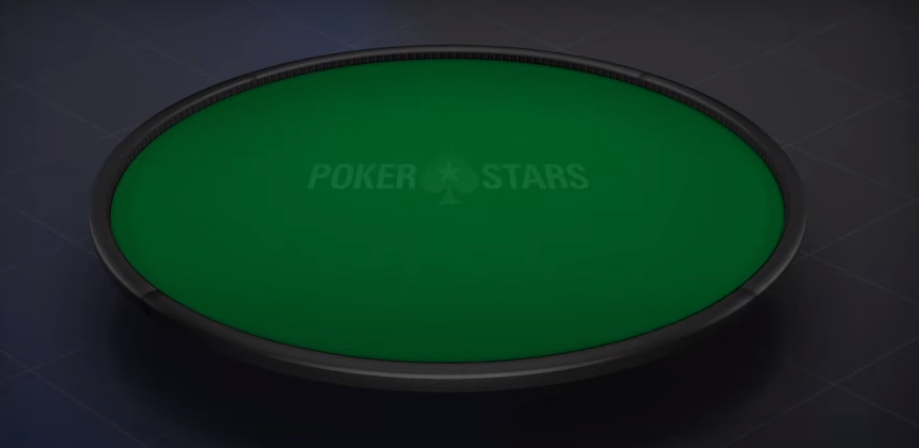
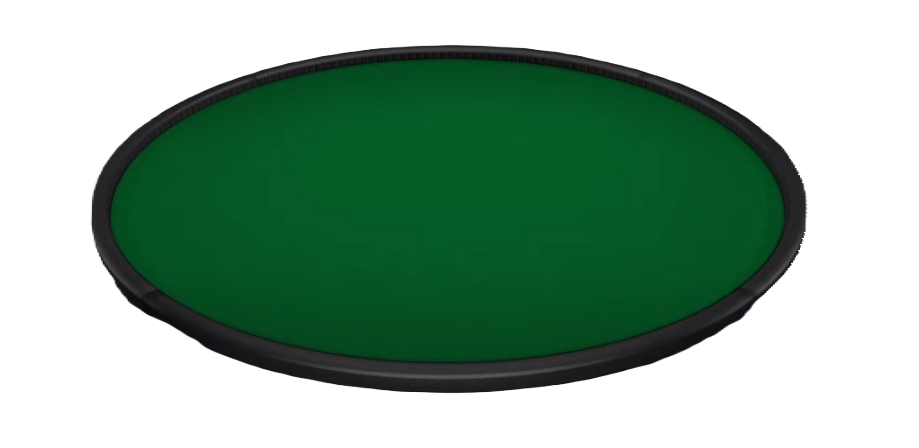
responsive and table

diff --git a/src/App.css b/src/App.css
@@ -1,7 +1,7 @@
 @import url('https://fonts.googleapis.com/css2?family=Agbalumo&family=Madimi+One&display=swap');
 
 body {
-  background-color: rgb(26, 22, 22);
+  background-color: rgb(0, 0, 0);
   display: flex;
   justify-content: center;
 }
@@ -10,26 +10,19 @@ body {
   text-align: center;
   color: white;
   height: 100dvh;
-  width: 100%;
+  width: 1024px;
   display: flex;
+  justify-content: center;
   flex-direction: column-reverse;
-  /* min-width: 1280px;
-  min-height: 855px;
-  max-width: 1280px;
-  max-height: 855px; */
   font-family: "Agbalumo", system-ui;
   font-weight: 400;
   font-style: normal;
 }
 
 .fundo {
+  position: relative;
   display: flex;
   flex-direction: column-reverse;
-  background-image: url("./assets/indiv/table/mesaps.png");
-  background-position: center;
-  background-repeat: no-repeat;
-  background-size: 110% 400px;
-  height: 600px;
 }
 
 .holecards {
@@ -55,13 +48,20 @@ body {
 
 .secondCards {
   display: flex;
-  justify-content: space-around;
+  justify-content: space-between;
+  margin: 0 10%;
 }
 
 .middleCards {
   display: flex;
   justify-content: space-between;
-  margin: 0px 50px 75px 50px;
+  margin: 3% 0;
+}
+
+.topcards {
+  display: flex;
+  justify-content: space-between;
+  margin: 0 10%;
 }
 
 .secondCards img,
@@ -70,16 +70,6 @@ body {
 .top img {
   height: 55px;
   width: 40px;
-}
-
-.topcards {
-  display: flex;
-  justify-content: space-around;
-  margin-bottom: 100px;
-}
-
-.top {
-  margin-bottom: 30px;
 }
 
 .acima_botao {
@@ -114,9 +104,6 @@ body {
     width: 1366px;
     height: 766px;
   }
-  .bckg{
-    width: 100%;
-  }
 
   .secondCards img,
   .middleCards img,
@@ -125,19 +112,15 @@ body {
     height: 40px;
     width: 35px;
   }
-  .cartas{
+
+  .cartas {
     margin: 0;
-    margin-bottom: 10%;
   }
-  .middleCards,
-  .topcards{
-    margin: 0;
-    margin-bottom: 5%;
-  }
+
   .div_pos {
     font-size: 16px;
   }
-  
+
   .streak {
     font-size: 12px;
   }

diff --git a/src/App.js b/src/App.js
@@ -2,6 +2,7 @@ import './App.css';
 import { useEffect, useRef, useState } from 'react';
 import Botao from './components/Botao';
 import Cartas from './components/Cartas';
+import Mesa from './components/Mesa/mesa';
 import deckBack from './assets/indiv/deck/back.png';
 import certo from './assets/v.png';
 import errado from './assets/x.png';
@@ -1079,7 +1080,7 @@ function App() {
 
 
   return (
-    <><section className="bckg">
+    <section className="bckg">
       <div className='container_botoes'>
         <Botao nome="Fold"
           score={() => Score(posicaoAtual, cartas[testemao[0]], testemao[2], cartas[testemao[1]], testemao[3], stack, mao, "FOLD")} />
@@ -1109,11 +1110,10 @@ function App() {
         </div>
       </div>
       <section className='fundo'>
-        <div className='bottomCards'>
-          <div className='holecards'>
-            <Cartas mao={mao} testemao={testemao} deckBack={deckBack} />
-          </div>
-        </div>
+        <Mesa />
+        
+          <Cartas mao={mao} testemao={testemao} deckBack={deckBack} />
+ 
         <div className='secondCards'>
           <div>
             <img src={deckBack} />
@@ -1152,7 +1152,7 @@ function App() {
           <img src={deckBack} />
         </div>
       </section>
-    </section></>
+    </section>
   );
 }
 

diff --git a/src/components/Mesa/mesa.css b/src/components/Mesa/mesa.css
@@ -1,0 +1,31 @@
+.table-background {
+    position: absolute; 
+    top: 0;
+    left: 0;
+    width: 100%;
+    height: 100%;
+    background-color: rgb(0, 0, 0); /* Green color for the table background */
+    z-index: -1; /* Ensure the background appears behind other content */
+    display: flex;
+    justify-content: center;
+    align-items: center;
+  }
+  
+  .table-border {
+    width: 90%;
+    height: 80%;
+    border: 10px solid brown; /* Brown color for the table border */
+    border-radius: 50%;
+  }
+  
+  .table-surface {
+    width: 100%;
+    height: 100%;
+    background-color: #0d663e; /* Dark green color for the table surface */
+    border-radius: 50%;
+  }
+  @media (max-width: 780px){
+    .table-background{
+        margin-bottom: 20%;
+    }
+  }

diff --git a/src/components/Mesa/mesa.js b/src/components/Mesa/mesa.js
@@ -1,0 +1,18 @@
+import './mesa.css'
+
+const Mesa = () => {
+
+    return (
+        <div className="table-background">
+            {/* Table border */}
+            <div className="table-border">
+                {/* Table surface */}
+                <div className="table-surface">
+                    {/* Table elements (e.g., cards, chips, etc.) can be added here */}
+                </div>
+            </div>
+        </div>
+    )
+}
+
+export default Mesa;

diff --git a/src/components/Cartas/index.js b/src/components/Cartas/index.js
@@ -87,13 +87,9 @@ function Cartas(props) {
 
     
     return (
-        <div className='cartas'>
-
-            <div className='heroCards'>
+        <div className='cartas'>           
                 <img src={hole[0]} className='carta1' />
                 <img src={hole[1]} className='carta2' />
-            </div>
- 
         </div>
     );
 }

diff --git a/src/components/Cartas/cartas.css b/src/components/Cartas/cartas.css
@@ -1,18 +1,11 @@
 .cartas {
   display: flex;
-  justify-content: space-around;
+  justify-content: center;
 }
 
 .cartas img {
-  height: 110px;
-  width: 100px;
-}
-.cartasVilao{
-  margin-bottom: 100px;
-}
-.cartasVilao img {
-  height: 55px;
-  width: 40px;
+  height: 100px;
+  width: 90px;
 }
 @media (max-height: 780px){
   .cartas img {
